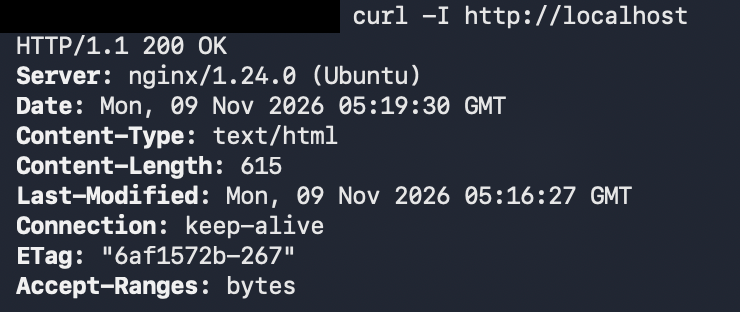
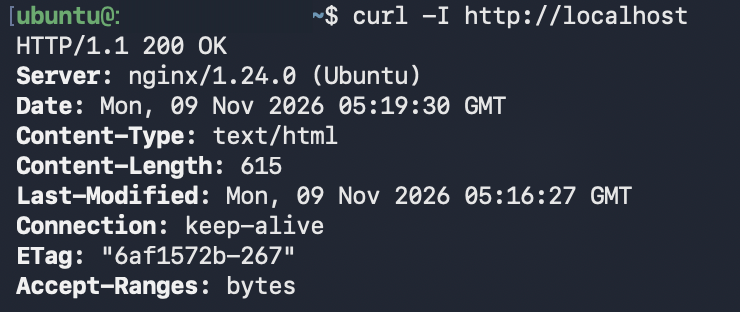
Improve screenshot redaction and cleanup evidence

Changed region(s): [[0.0, 0.0, 0.4662, 0.1154]]

diff --git a/docs/cleanup-checklist.md b/docs/cleanup-checklist.md
@@ -2,7 +2,9 @@
 
 실습일: 2026-11-09 · 리전: 서울 (`ap-northeast-2`)
 
-실습자는 생성한 실습 리소스를 모두 정리했다고 확인했다. 아래 체크 표시는 그 확인을 반영한다. EC2는 제공된 콘솔 캡처로 종료 완료를 확인했으며, 그 외 항목의 삭제 완료는 별도 콘솔 캡처 없이 실습자 확인을 근거로 기록했다.
+실습자는 생성한 실습 리소스를 모두 정리했다고 확인했다. 아래 체크 표시는 그 확인을 반영한다. EC2 종료와 보안 그룹·서브넷·VPC 삭제, 인터넷 게이트웨이 분리·삭제는 콘솔 캡처로 확인했다. 키페어는 1개 삭제 완료 알림을 확보했다. EBS·Elastic IP·사용자 지정 라우팅 테이블은 별도 삭제 캡처 없이 실습자 확인을 근거로 기록했다.
+
+공개용 캡처는 계정·리소스 ID 등 식별정보를 배경색으로 가리고 불필요한 여백을 잘랐다. 완료 문구와 상태는 원본 그대로 유지했다.
 
 ## 정리 결과
 
@@ -11,11 +13,12 @@
 | [x] | EC2 | `b3-web-server` / `<INSTANCE_ID>` | 최종 상태 ‘종료됨’을 아래 콘솔 캡처에서 확인. 중지 상태가 아님. |
 | [x] | EBS | `<VOLUME_ID>` / 8GiB | 삭제 완료 — 실습자의 전체 리소스 정리 완료 확인에 근거. 볼륨 삭제 화면은 미첨부. |
 | [x] | Elastic IP | 할당 ID 증빙 없음 | 실습자의 전체 리소스 정리 완료 확인에 따라 잔여 항목 없음으로 기록. 미할당인지 할당 후 해제인지 구분할 자료는 없음. |
-| [x] | 사용자 지정 보안 그룹 | `b3-web-sg` | 삭제 완료 — 실습자 확인. |
-| [x] | Public Subnet | `b3-public-subnet` / `<SUBNET_ID>` | 삭제 완료 — 실습자 확인. |
+| [x] | 사용자 지정 보안 그룹 | `b3-web-sg` | [삭제 완료 알림](#보안-그룹-삭제)으로 확인. |
+| [x] | Public Subnet | `b3-public-subnet` / `<SUBNET_ID>` | [삭제 완료 알림](#public-subnet-삭제)으로 확인. |
 | [x] | 사용자 지정 라우팅 테이블 | `b3-public-rt` / `<ROUTE_TABLE_ID>` | 삭제 완료 — 실습자 확인. |
-| [x] | Internet Gateway | `b3-igw` / `<IGW_ID>` | 분리·삭제 완료 — 실습자 확인. |
-| [x] | VPC | `b3-vpc` / `<VPC_ID>` | 삭제 완료 — 실습자 확인. |
+| [x] | Internet Gateway | `b3-igw` / `<IGW_ID>` | [VPC 분리 및 삭제 완료 알림](#인터넷-게이트웨이-분리삭제)으로 확인. |
+| [x] | VPC | `b3-vpc` / `<VPC_ID>` | [삭제 완료 알림](#vpc-삭제)으로 확인. |
+| [x] | 키페어 | 삭제 알림에 이름 미표시 | [키페어 1개 삭제 완료 알림](#키페어-삭제)으로 확인. 알림만으로 특정 키페어 이름까지 확인할 수는 없음. |
 
 ## EC2 종료 완료 증빙
 
@@ -23,10 +26,44 @@
 
 ![EC2 최종 종료 상태](screenshots/20-ec2-terminated.png)
 
+## 추가 정리 증빙
+
+### 보안 그룹 삭제
+
+`b3-web-sg` 삭제 완료 알림이다.
+
+![보안 그룹 삭제 완료](screenshots/23-security-group-deleted.png)
+
+### Public Subnet 삭제
+
+실습 서브넷 삭제 완료 알림이다. 식별정보는 가렸다.
+
+![Public Subnet 삭제 완료](screenshots/25-subnet-deleted.png)
+
+### 인터넷 게이트웨이 분리·삭제
+
+VPC에서 `b3-igw`를 분리한 뒤 인터넷 게이트웨이를 삭제한 각각의 완료 알림이다.
+
+![인터넷 게이트웨이 VPC 분리 완료](screenshots/22-igw-detached.png)
+
+![인터넷 게이트웨이 삭제 완료](screenshots/27-igw-deleted.png)
+
+### VPC 삭제
+
+`b3-vpc`와 기타 리소스 1개를 삭제했다는 알림이다. 기타 리소스의 종류는 화면에 표시되지 않아 사용자 지정 라우팅 테이블의 개별 삭제 증빙으로 사용하지 않았다.
+
+![VPC 삭제 완료](screenshots/26-vpc-deleted.png)
+
+### 키페어 삭제
+
+키페어 1개 삭제 완료 알림이다. 삭제된 키페어의 이름은 이 화면에 표시되지 않는다.
+
+![키페어 1개 삭제 완료](screenshots/24-keypair-deleted.png)
+
 ## 확인 범위
 
 - 외부 접속 및 설정 증빙은 리소스 정리 전에 확보했다.
-- EC2 종료만으로 다른 리소스의 삭제 여부까지 증명되는 것은 아니다. EBS·Elastic IP·네트워크 리소스는 위 표에 근거를 따로 표시했다.
+- EC2 종료만으로 다른 리소스의 삭제 여부까지 증명되는 것은 아니다. 네트워크 리소스는 추가 알림을 연결했고, EBS·Elastic IP·사용자 지정 라우팅 테이블은 위 표에 실습자 확인 근거를 따로 표시했다.
 - NAT Gateway·ELB/ALB·RDS는 제공된 실습 구성에 포함되지 않았다. 계정 전체의 다른 리소스를 조회한 결과는 아니다.
 - Billing Dashboard 화면은 제공되지 않았다. 최종 청구 금액 또는 계정 전체의 과금 항목이 없다는 사실까지 검증한 기록은 아니다.
 - 재사용을 위한 일시 중지는 최종 정리와 구분한다. 실습 최종 정리에서는 인스턴스를 종료하고 잔여 EBS 등도 확인한다.

diff --git a/README.md b/README.md
@@ -134,7 +134,7 @@ curl -I https://example.com
 
 재사용하려던 인스턴스에서 중지 대신 종료(삭제)를 선택하여 다시 시작할 수 없게 된 사례를 [트러블슈팅 보고서](docs/troubleshooting.md)에 기록했습니다. 기존 인스턴스를 재생성하거나 서비스를 복구하지는 않았습니다.
 
-EC2의 최종 상태는 **종료됨**으로 확인했습니다. 나머지 실습 리소스는 실습자가 정리 완료를 확인했으며, 항목별 근거와 확인 범위는 [리소스 정리 체크리스트](docs/cleanup-checklist.md)에 정리했습니다.
+EC2의 최종 상태는 **종료됨**으로 확인했습니다. 보안 그룹·서브넷·VPC 삭제와 인터넷 게이트웨이 분리·삭제는 추가 콘솔 캡처로 확인했고, 키페어 1개 삭제 완료 알림도 확보했습니다. EBS·Elastic IP·사용자 지정 라우팅 테이블은 실습자의 정리 완료 확인을 근거로 기록했습니다. 항목별 증빙과 확인 범위는 [리소스 정리 체크리스트](docs/cleanup-checklist.md)에 정리했습니다.
 
 ## 참고
 
